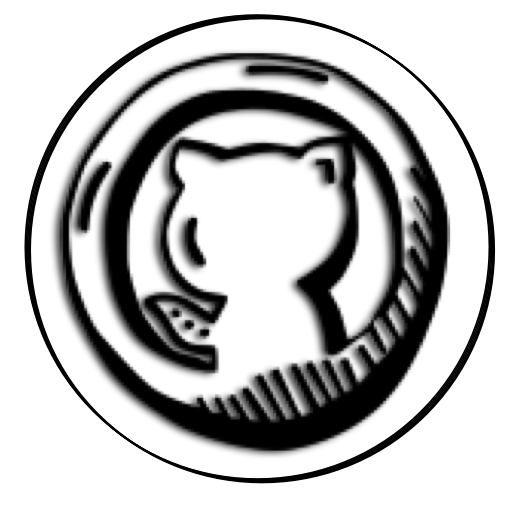
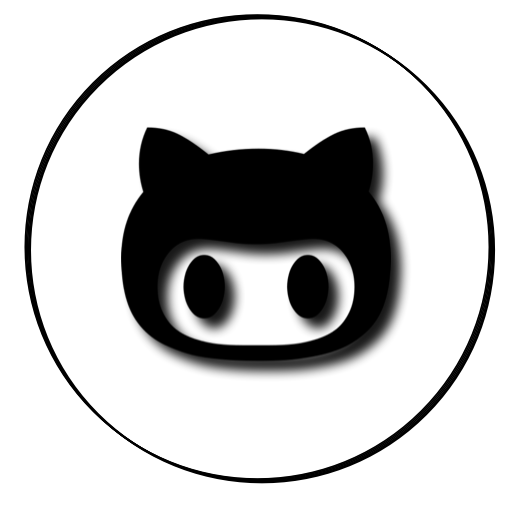
final design done

diff --git a/deredhuzent.html b/deredhuzent.html
@@ -13,16 +13,15 @@
     <section id="signature">
             <section>
                 <div class="socialMedia">
+                        <a href="https://github.com/deredhuzent" target="_blank" rel="noopener noreferrer">
+                            <img class="ico github" src="/public/ico/github.png">
+                        </a>
+                        <a href="https://www.linkedin.com/in/regina-escoto/" target="_blank" rel="noopener noreferrer">
+                            <img class="ico linkedin" src="/public/ico/linkedin.png">
+                        </a>
                     <a href="https://www.instagram.com/deredhuzent/" target="_blank" rel="noopener noreferrer">
-                        <img class="ico instagram" src="https://dl.dropboxusercontent.com/s/d9hp60ztl9jdiw2/instagram.png?dl=0">
+                        <img class="ico instagram" src="/public/ico/instagram.png">
                     </a>
-                    <a href="https://www.linkedin.com/in/regina-escoto/" target="_blank" rel="noopener noreferrer">
-                        <img class="ico linkedin" src="https://dl.dropboxusercontent.com/s/q4tvyy2iu404j5l/linkedin.png?dl=0">
-                    </a>
-                    <a href="https://github.com/deredhuzent" target="_blank" rel="noopener noreferrer">
-                        <img class="ico github" src="https://dl.dropboxusercontent.com/s/k7wfrzjvv71ippa/github.png?dl=0">
-                    </a>
-
                 </div>
 
                 <div>
@@ -32,19 +31,19 @@
 
                 <div>
                     <div class="mail">
-                        <a href="mailto:deredhuzent@gmail.com"><img class="icoMail" src="https://dl.dropboxusercontent.com/s/ofb188arnwpikx1/email.png?dl=0"></a>
+                        <a href="mailto:deredhuzent@gmail.com"><img class="icoMail" src="/public/ico/email.png"></a>
                         <a href="mailto:deredhuzent@gmail.com"><p class="dirMail font">deredhuzent@gmail.com</p></a>
                     </div>
                     <div>
-                        <a class="movil font" href="tel:5533277370">55-222-7370</a>
-                        <a href="tel:5533277370"><img class="nerdy" src="https://dl.dropboxusercontent.com/s/ns4f0bmh3c931ju/nerdyPhone.png?dl=0" width="30px"></a>
+                        <a class="movil font" href="tel:5533277370">55 2227370</a>
+                        <a href="tel:5533277370"><img class="nerdy" src="/public/ico/nerdyPhone.png"></a>
                     </div>
                 </div>
             </section>
 
 
             <section>
-                    <img class="fatima" src="https://dl.dropboxusercontent.com/s/uuxylssb2mux86w/manoFatima.png?dl=0" alt="Designed by Freepik from www.flaticon.com"/>
+                    <img class="fatima" src="/public/ico/manoFatima.png"/>
                     <h1  id="marca">DeryanaDhuzent</h1>
             </section>
         

diff --git a/public/Styles/data.css b/public/Styles/data.css
@@ -39,27 +39,27 @@
 .nerdy{
     position: absolute;
     margin: 7.2em 0 0 15.1em;
-    /* width: 30px; */
+    width: 30px;
+}
+
+.ico{
+    width: 35px;
 }
 
 .socialMedia{
     position: absolute;
     display: flex;
-    margin: 10.2em 0 0 0em;
-}
-
-.ico{
-    width: 40px;
+    margin: 1.1em 0 0 15em;
 }
 
 .instagram{
-    margin: 0 0 0 0;
+    margin: 0 -1em 0 0;
 }
 
 .linkedin{
-    margin: 0 0 0 0;
+    margin: 0 -1em 0 0;
 }
 
 .github{
-    margin: 0 0 0 0;
+    margin: 0 -1em 0 0;
 }

diff --git a/public/Styles/background.css b/public/Styles/background.css
@@ -25,4 +25,5 @@ a{
     margin: 3.4em 0 0 4.7em;
     font-family: 'Indie Flower', cursive;
     font-size: 2.5em;
+    color: gray;
 }
